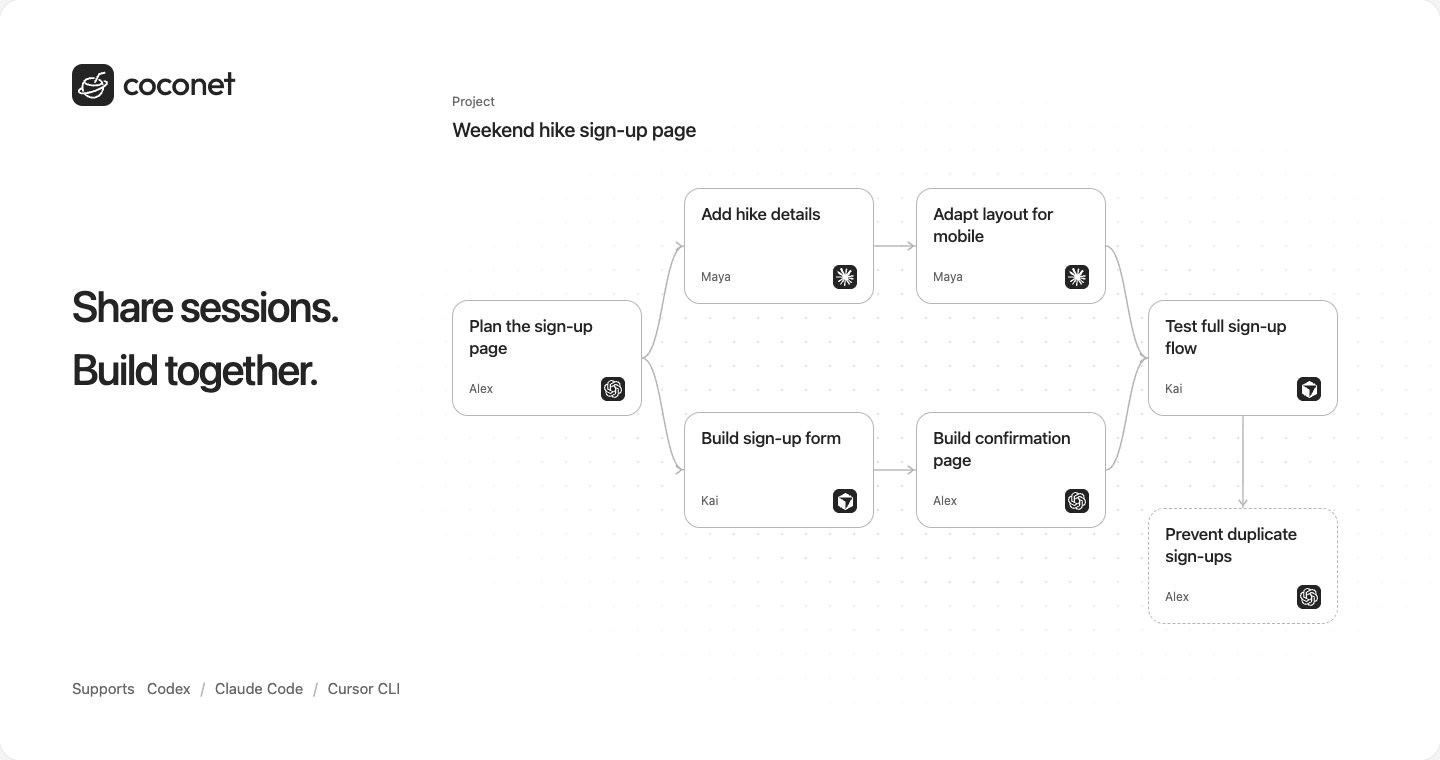
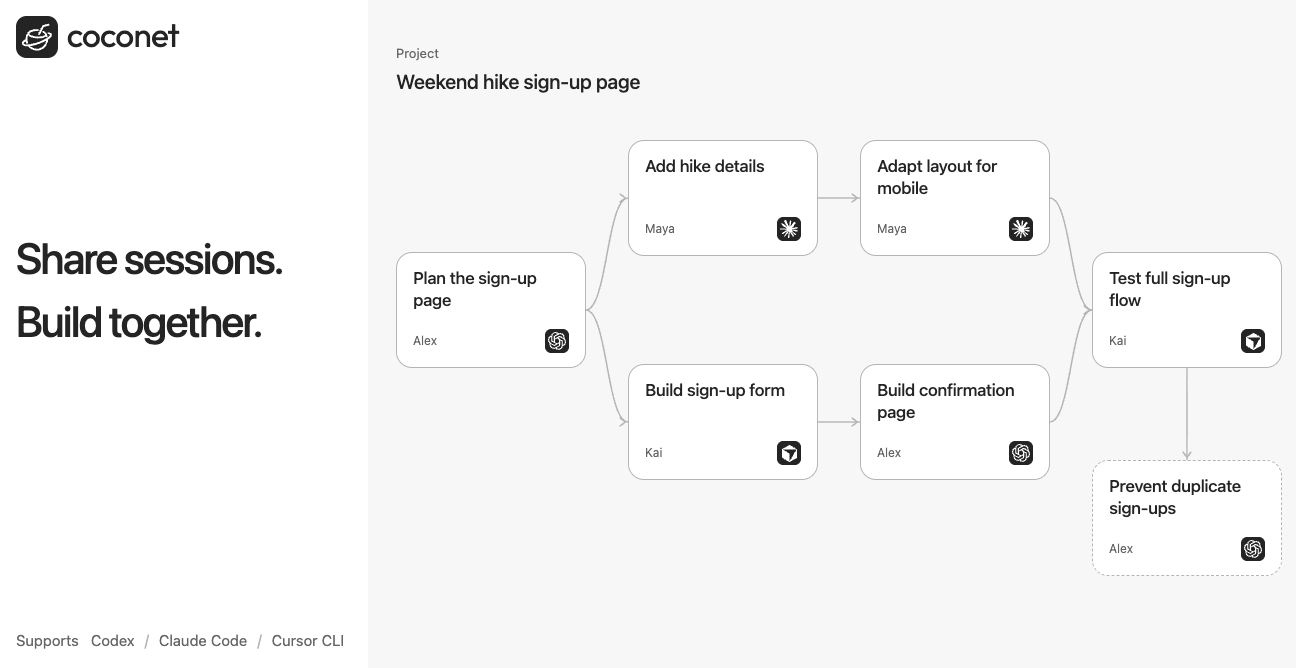
docs: refine carousel layout and simplify README navigation

diff --git a/docs/assets/readme/preview.css b/docs/assets/readme/preview.css
@@ -12,7 +12,7 @@
 [hidden] { display:none!important; }
 body { margin:0; padding:28px; }
 p,h1,figure { margin:0; }
-.preview-toolbar { max-width:1440px; margin:0 auto 20px; display:flex; align-items:center; justify-content:space-between; gap:16px; font-size:13px; line-height:20px; }
+.preview-toolbar { max-width:1296px; margin:0 auto 20px; display:flex; align-items:center; justify-content:space-between; gap:16px; font-size:13px; line-height:20px; }
 .preview-controls { display:flex; align-items:center; gap:20px; }
 .preview-controls a { color:var(--secondary); text-underline-offset:4px; }
 button,select { font:inherit; color:var(--text); background:white; border:1px solid #d5d5d5; border-radius:10px; min-height:40px; padding:8px 14px; line-height:20px; cursor:pointer; }
@@ -20,17 +20,17 @@ button:hover { background:#ededed; }
 button[aria-pressed="true"] { color:#fff; background:var(--text); border-color:var(--text); }
 button:focus-visible,select:focus-visible,a:focus-visible { outline:2px solid var(--text); outline-offset:3px; }
 .sr-only { position:absolute; width:1px; height:1px; overflow:hidden; clip-path:inset(50%); white-space:nowrap; }
-.preview-frame { position:relative; margin:auto; width:100%; max-width:1440px; aspect-ratio:1440 / 760; background:white; border-radius:20px; overflow:hidden; box-shadow:0 0 0 1px #e2e2e3; }
-.poster { position:absolute; width:1440px; height:760px; overflow:hidden; background:#fff; transform:scale(var(--poster-scale,1)); transform-origin:top left; }
-.dots { position:absolute; inset:90px -50px 50px 362px; background-image:radial-gradient(circle,#e2e2e2 .8px,transparent .9px); background-size:24px 24px; mask-image:radial-gradient(ellipse at 54% 51%,#000 30%,transparent 74%); }
-.brand { position:absolute; top:64px; left:72px; display:flex; align-items:center; gap:8.65px; }
+.preview-frame { position:relative; margin:auto; width:100%; max-width:1296px; aspect-ratio:1296 / 668; background:white; overflow:hidden; }
+.poster { position:absolute; width:1296px; height:668px; overflow:hidden; background:#fff; transform:scale(var(--poster-scale,1)); transform-origin:top left; }
+.poster::before { content:""; position:absolute; inset:0 0 0 368px; background:#f7f7f7; pointer-events:none; }
+.brand { position:absolute; top:16px; left:16px; display:flex; align-items:center; gap:8.65px; }
 .brand img { display:block; }
 .brand span { font-family:"Outfit Brand",var(--font); font-size:33.35px; line-height:1.15; font-weight:400; letter-spacing:-.74px; font-synthesis:none; transform:translateY(-1.85px); }
-h1 { position:absolute; left:72px; top:272px; font-size:48px; line-height:1.3; font-weight:500; letter-spacing:-1.3px; }
+h1 { position:absolute; left:16px; top:224px; font-size:48px; line-height:1.3; font-weight:500; letter-spacing:-1.3px; }
 h1 span { display:block; }
 h1 span + span { margin-top:7px; }
-html[lang="en"] h1 { top:278px; font-size:43px; letter-spacing:-1.8px; }
-.workflow { position:absolute; left:452px; top:156px; width:900px; height:520px; }
+html[lang="en"] h1 { top:230px; font-size:43px; letter-spacing:-1.8px; }
+.workflow { position:absolute; left:396px; top:108px; width:900px; height:520px; }
 .workflow figcaption { position:absolute; top:-64px; left:0; display:flex; flex-direction:column; gap:6px; }
 .project-label { color:var(--secondary); font-size:13px; line-height:18px; }
 .workflow figcaption strong { font-size:20px; line-height:28px; font-weight:500; letter-spacing:-.2px; }
@@ -50,8 +50,8 @@ html[lang="en"] h1 { top:278px; font-size:43px; letter-spacing:-1.8px; }
 .poster[data-scene="fork"] .edge:not(.handoff) { opacity:.32; }
 .poster[data-scene="fork"] .work-node[data-node="success"] { border-color:var(--text); }
 .poster[data-scene="fork"] .handoff { opacity:1; }
-.poster:not([data-scene="graph"]) h1 { top:196px; }
-.conversation-note { position:absolute; left:72px; top:360px; width:324px; display:flex; flex-direction:column; gap:12px; }
+.poster:not([data-scene="graph"]) h1 { top:148px; }
+.conversation-note { position:absolute; left:16px; top:312px; width:324px; display:flex; flex-direction:column; gap:12px; }
 .chat-message { display:flex; flex-direction:column; gap:5px; }
 .chat-speaker { font-size:11px; line-height:16px; color:var(--secondary); }
 .user-message { margin-left:24px; align-items:flex-end; }
@@ -60,11 +60,11 @@ html[lang="en"] h1 { top:278px; font-size:43px; letter-spacing:-1.8px; }
 .question { background:#ededed; border-radius:18px 18px 4px 18px; }
 .answer { background:#f7f7f7; border-radius:18px 18px 18px 4px; }
 .handoff-caption { color:var(--secondary); font-size:12px; line-height:18px; }
-.poster-footer { position:absolute; left:72px; bottom:60px; color:var(--secondary); font-size:17px; line-height:24px; }
+.poster-footer { position:absolute; left:16px; bottom:16px; color:var(--secondary); font-size:17px; line-height:24px; }
 .agents { display:flex; align-items:center; gap:10px; font-size:15px; }
 .agents .separator { color:#b5b5b7; }
 .support-label { margin-right:2px; }
-.carousel-controls { display:flex; align-items:center; justify-content:center; flex-wrap:wrap; gap:20px; max-width:1440px; margin:22px auto 0; font-size:13px; }
+.carousel-controls { display:flex; align-items:center; justify-content:center; flex-wrap:wrap; gap:20px; max-width:1296px; margin:22px auto 0; font-size:13px; }
 .scene-controls { display:flex; gap:8px; }
 #playback { display:inline-flex; align-items:center; gap:8px; }
 .playback-icon { display:block; width:16px; height:16px; }
@@ -79,7 +79,6 @@ html[lang="en"] h1 { top:278px; font-size:43px; letter-spacing:-1.8px; }
   body { padding:20px 12px; }
   .preview-toolbar { align-items:flex-start; flex-direction:column; gap:12px; }
   .preview-controls { width:100%; justify-content:space-between; gap:12px; }
-  .preview-frame { border-radius:10px; }
   .carousel-controls { gap:12px; }
   .scene-controls { display:grid; grid-template-columns:repeat(3,minmax(0,1fr)); width:100%; gap:6px; }
   .scene-controls button { padding:8px 10px; }

diff --git a/docs/assets/readme/preview.js b/docs/assets/readme/preview.js
@@ -158,6 +158,6 @@ document.addEventListener('focusin', () => { focused = true; schedule(); });
 document.addEventListener('focusout', () => { focused = false; schedule(); });
 document.addEventListener('visibilitychange', schedule);
 motion.addEventListener('change', () => { if (motion.matches) playing = false; render(); schedule(); });
-function fitPoster() { frame.style.setProperty('--poster-scale', frame.clientWidth / 1440); }
+function fitPoster() { frame.style.setProperty('--poster-scale', frame.clientWidth / 1296); }
 new ResizeObserver(fitPoster).observe(frame);
 fitPoster(); render(); schedule();

diff --git a/docs/assets/readme/index.html b/docs/assets/readme/index.html
@@ -21,7 +21,6 @@
 
   <main class="preview-frame">
     <article class="poster" data-scene="graph" aria-labelledby="headline">
-      <div class="dots" aria-hidden="true"></div>
       <div class="brand" aria-label="Coconet">
         <img src="../../../apps/dashboard/assets/coconet-app-icon.svg" width="42" height="42" alt="">
         <span>coconet</span>

diff --git a/docs/assets/readme/navigation.py b/docs/assets/readme/navigation.py
@@ -6,20 +6,18 @@ ROOT = Path(__file__).resolve().parent
 ICONS = {
     'website': '<circle cx="12" cy="12" r="9"/><ellipse cx="12" cy="12" rx="4" ry="9"/><path d="M3 12h18"/>',
     'language': '<path d="M3 5h12M9 3v2M12 5c0 6-4 10-9 12M5 8c1 4 4 6 8 8M14 21l4-10 4 10M15.2 18h5.6"/>',
-    'start': '<path d="M5 4h14v16H5zM8 8h8M8 12h5M8 16h3"/>',
     'docs': '<path d="M12 5C8 2 3 4 3 4v15s5-2 9 1c4-3 9-1 9-1V4s-5-2-9 1v15"/>',
-    'server': '<rect x="3" y="3" width="18" height="7" rx="2"/><rect x="3" y="14" width="18" height="7" rx="2"/><path d="M7 6.5h.01M7 17.5h.01M12 6.5h5M12 17.5h5"/>',
-    'graph': '<rect x="2" y="9" width="5" height="6" rx="1"/><rect x="17" y="2" width="5" height="6" rx="1"/><rect x="17" y="16" width="5" height="6" rx="1"/><path d="M7 12h3c3 0 2-7 7-7M10 12c3 0 2 7 7 7"/>',
-    'data': '<ellipse cx="12" cy="5" rx="8" ry="3"/><path d="M4 5v14c0 4 16 4 16 0V5M4 12c0 4 16 4 16 0"/>',
-    'code': '<path d="m8 6-6 6 6 6M16 6l6 6-6 6M14 3l-4 18"/>',
+    'contribute': '<circle cx="9" cy="7" r="3"/><path d="M3 20v-2a6 6 0 0 1 12 0v2M16 4a3 3 0 0 1 0 6M18 13a5 5 0 0 1 3 5v2"/>',
+    'license': '<path d="M14 3H5v18h14V8l-5-5v5h5M8 14l3 3 5-6"/>',
 }
 LABELS = {
-    'start': ('Getting started', '使用指南'),
     'docs': ('Docs & help', '文档与帮助'),
-    'server': ('Self-hosting', '自部署'),
-    'graph': ('How it works', '工作原理'),
-    'data': ('Data sharing', '数据共享'),
-    'code': ('Development', '开发文档'),
+    'contribute': ('Contributing', '贡献指南'),
+    'license': ('MIT License', 'MIT 许可证'),
+}
+HEADER_LABELS = {
+    'website': ('Website', '访问官网'),
+    'language': ('阅读中文', 'Read in English'),
 }
 
 
@@ -27,9 +25,12 @@ def icon(name, x, y, scale):
     return f'<g transform="translate({x} {y}) scale({scale})" fill="none" stroke="#303030" stroke-width="1.5" stroke-linecap="round" stroke-linejoin="round">{ICONS[name]}</g>'
 
 
-for name in ('website', 'language'):
-    content = '<rect x=".5" y=".5" width="35" height="35" rx="9" fill="#fff" stroke="#dedede"/>' + icon(name, 8, 8, 20 / 24)
-    (ROOT / f'{name}.svg').write_text(f'<svg xmlns="http://www.w3.org/2000/svg" width="36" height="36" viewBox="0 0 36 36">{content}</svg>\n')
+for name, labels in HEADER_LABELS.items():
+    for language, label in zip(('en', 'zh'), labels):
+        content = '<rect x=".5" y="4.5" width="167" height="39" rx="10" fill="#fff" stroke="#dedede"/>'
+        content += icon(name, 14, 14, 20 / 24)
+        content += f'<text x="44" y="29" font-family="system-ui,-apple-system,Segoe UI,PingFang SC,Noto Sans SC,sans-serif" font-size="13" font-weight="500" fill="#242424">{escape(label)}</text>'
+        (ROOT / f'{name}-{language}.svg').write_text(f'<svg xmlns="http://www.w3.org/2000/svg" width="168" height="48" viewBox="0 0 168 48">{content}</svg>\n')
 
 for name, labels in LABELS.items():
     for language, label in zip(('en', 'zh'), labels):

diff --git a/README.zh-CN.md b/README.zh-CN.md
@@ -1,10 +1,10 @@
 <a href="https://coconet.space/"><img src="docs/assets/readme/promo-zh.gif" alt="Coconet：了解团队工作图、查询同事进展，并跨 Agent 接力同事的会话。" width="100%"></a>
 
-# Coconet
+# <img src="apps/dashboard/assets/coconet-app-icon.svg" alt="" width="32" height="32"> Coconet
 
 <p>
-  <a href="https://coconet.space/" title="打开 Coconet"><img src="docs/assets/readme/website.svg" alt="网站首页" width="36" height="36"></a>
-  <a href="README.md" title="Read in English"><img src="docs/assets/readme/language.svg" alt="English" width="36" height="36"></a>
+  <a href="https://coconet.space/" title="打开 Coconet"><img src="docs/assets/readme/website-zh.svg" alt="访问官网" width="168" height="48"></a>
+  <a href="README.md" title="Read in English"><img src="docs/assets/readme/language-zh.svg" alt="Read in English" width="168" height="48"></a>
 </p>
 
 和同事共享 Agent session，共同推动工作进展。通过工作图了解团队在做什么、找到相关对话，也可以换一个 Agent，接着同事的会话继续工作。
@@ -27,14 +27,7 @@ coconet connect
 ## 进一步了解
 
 <p>
-  <a href="docs/getting-started.md"><img src="docs/assets/readme/start-zh.svg" alt="使用指南" width="168" height="60"></a>
   <a href="docs/README.md"><img src="docs/assets/readme/docs-zh.svg" alt="文档与帮助" width="168" height="60"></a>
-  <a href="docs/self-hosting.md"><img src="docs/assets/readme/server-zh.svg" alt="自部署" width="168" height="60"></a>
+  <a href="CONTRIBUTING.md"><img src="docs/assets/readme/contribute-zh.svg" alt="贡献指南" width="168" height="60"></a>
+  <a href="LICENSE"><img src="docs/assets/readme/license-zh.svg" alt="MIT 许可证" width="168" height="60"></a>
 </p>
-<p>
-  <a href="docs/architecture.md"><img src="docs/assets/readme/graph-zh.svg" alt="工作原理" width="168" height="60"></a>
-  <a href="docs/data-sharing.md"><img src="docs/assets/readme/data-zh.svg" alt="数据共享" width="168" height="60"></a>
-  <a href="docs/development.md"><img src="docs/assets/readme/code-zh.svg" alt="开发文档" width="168" height="60"></a>
-</p>
-
-[贡献指南](CONTRIBUTING.md) · [安全反馈](SECURITY.md) · [MIT 许可证](LICENSE) · [第三方许可](THIRD_PARTY_NOTICES.md)

diff --git a/README.md b/README.md
@@ -1,10 +1,10 @@
 <a href="https://coconet.space/"><img src="docs/assets/readme/promo-en.gif" alt="Coconet: follow a team's work graph, ask about progress, and continue a teammate's session across Agents." width="100%"></a>
 
-# Coconet
+# <img src="apps/dashboard/assets/coconet-app-icon.svg" alt="" width="32" height="32"> Coconet
 
 <p>
-  <a href="https://coconet.space/" title="Open Coconet"><img src="docs/assets/readme/website.svg" alt="Website" width="36" height="36"></a>
-  <a href="README.zh-CN.md" title="切换到简体中文"><img src="docs/assets/readme/language.svg" alt="简体中文" width="36" height="36"></a>
+  <a href="https://coconet.space/" title="Open Coconet"><img src="docs/assets/readme/website-en.svg" alt="Website" width="168" height="48"></a>
+  <a href="README.zh-CN.md" title="阅读中文"><img src="docs/assets/readme/language-en.svg" alt="阅读中文" width="168" height="48"></a>
 </p>
 
 Share Agent sessions and build together. Follow your team's work graph, find
@@ -30,14 +30,7 @@ or connect their own local folders to collaborate.
 ## Explore
 
 <p>
-  <a href="docs/getting-started.md"><img src="docs/assets/readme/start-en.svg" alt="Getting started" width="168" height="60"></a>
   <a href="docs/README.md"><img src="docs/assets/readme/docs-en.svg" alt="Docs and help" width="168" height="60"></a>
-  <a href="docs/self-hosting.md"><img src="docs/assets/readme/server-en.svg" alt="Self-hosting" width="168" height="60"></a>
+  <a href="CONTRIBUTING.md"><img src="docs/assets/readme/contribute-en.svg" alt="Contributing" width="168" height="60"></a>
+  <a href="LICENSE"><img src="docs/assets/readme/license-en.svg" alt="MIT License" width="168" height="60"></a>
 </p>
-<p>
-  <a href="docs/architecture.md"><img src="docs/assets/readme/graph-en.svg" alt="How it works" width="168" height="60"></a>
-  <a href="docs/data-sharing.md"><img src="docs/assets/readme/data-en.svg" alt="Data sharing" width="168" height="60"></a>
-  <a href="docs/development.md"><img src="docs/assets/readme/code-en.svg" alt="Development" width="168" height="60"></a>
-</p>
-
-[Contributing](CONTRIBUTING.md) · [Security](SECURITY.md) · [MIT](LICENSE) · [Third-party notices](THIRD_PARTY_NOTICES.md)

diff --git a/docs/assets/readme/README.md b/docs/assets/readme/README.md
@@ -4,10 +4,13 @@
 and Chinese, keyboard controls and reduced-motion support. Every project, author
 and conversation in the illustrations is fictional.
 
-The root README uses `promo-en.gif` / `promo-zh.gif` (1440 × 760, about 135 KiB
-and 132 KiB). Each of the three frames remains visible for 6.5 seconds. The PNG
+The root README uses `promo-en.gif` / `promo-zh.gif` (1296 × 668, about 131 KiB
+and 127 KiB). Each of the three frames remains visible for 6.5 seconds. The PNG
 files provide static alternatives; the HTML preview also has a pause control.
 GitHub renders the GIF rather than the interactive HTML carousel.
+
+The illustrations keep narrow outer margins. A plain light-gray canvas separates
+the work graph from the explanation and example chat on the left.
 
 The six PNGs and both GIFs are generated from the HTML, CSS and JavaScript here.
 To regenerate, use Node.js, Python 3 with Pillow, and a separate Playwright install:
@@ -21,7 +24,9 @@ python3 docs/assets/readme/navigation.py
 Rendering checks that node titles and chat bubbles fit, waits for the local font
 and images, and rejects unexpected remote requests. No Agent or model is invoked.
 
-Navigation SVGs use simple local vector paths and system fonts, with no scripts
-or external assets. README anchors retain descriptive alt text and link titles.
+Navigation SVGs combine icons with visible labels, using local vector paths and
+system fonts without scripts or external assets. Website and language links use
+168 × 48 images; Docs, Contributing and MIT License use 168 × 60 images.
+README links retain descriptive alt text.
 Agent mark sources and the MIT license are in [agent-marks](../agent-marks/README.md).
 The brand font uses the existing [Outfit Brand subset](../../../apps/dashboard/assets/fonts/README.md).
